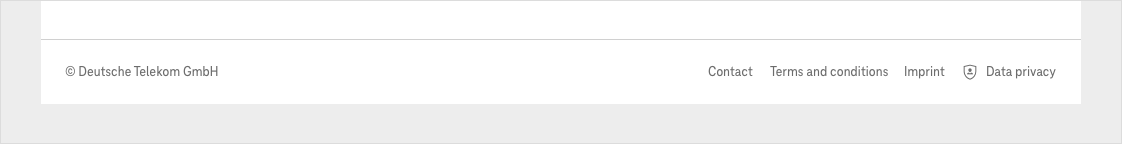
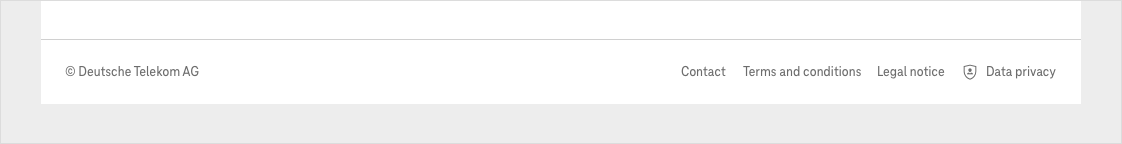
chore: change Imprint to Legal notice

Changed region(s): [[0.5927, 0.4444, 0.8422, 0.5278], [0.156, 0.4444, 0.2184, 0.5278]]

diff --git a/packages/components/src/html/telekom/header-custom.html b/packages/components/src/html/telekom/header-custom.html
@@ -504,9 +504,9 @@ width: 100%; */
           href: '#terms-and-conditions',
         },
         {
-          name: 'Imprint',
-          id: 'Imprint',
-          href: '#imprint',
+          name: 'Legal notice',
+          id: 'Legal notice',
+          href: '#legal-notice',
         },
         {
           name: 'Data privacy',

diff --git a/packages/components/src/html/telekom/header.html b/packages/components/src/html/telekom/header.html
@@ -457,9 +457,9 @@ width: 100%; */
           href: '#terms-and-conditions',
         },
         {
-          name: 'Imprint',
-          id: 'Imprint',
-          href: '#imprint',
+          name: 'Legal notice',
+          id: 'Legal notice',
+          href: '#legal-notice',
         },
         {
           name: 'Data privacy',

diff --git a/packages/storybook-vue/stories/3_components/brand-header/fixtures.js b/packages/storybook-vue/stories/3_components/brand-header/fixtures.js
@@ -246,9 +246,9 @@ export const footerNavigation = [
     href: "#terms-and-conditions"
   },
   {
-    name: "Imprint",
-    id: "Imprint",
-    href: "#imprint"
+    name: "Legal notice",
+    id: "Legal notice",
+    href: "#legal-notice"
   },
   {
     name: "Data privacy",
